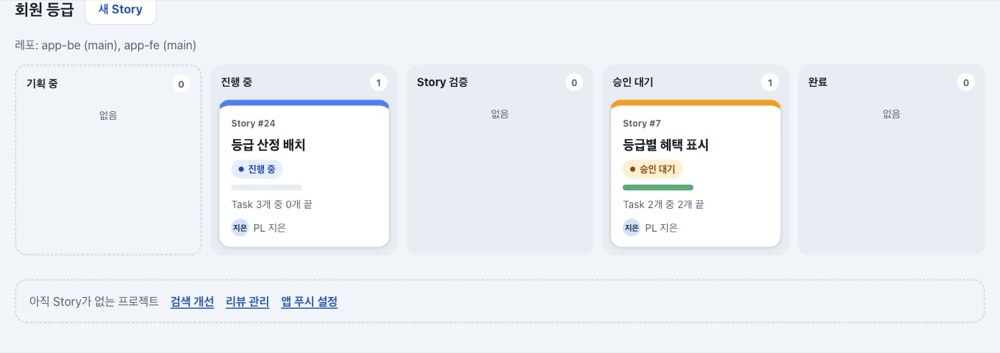
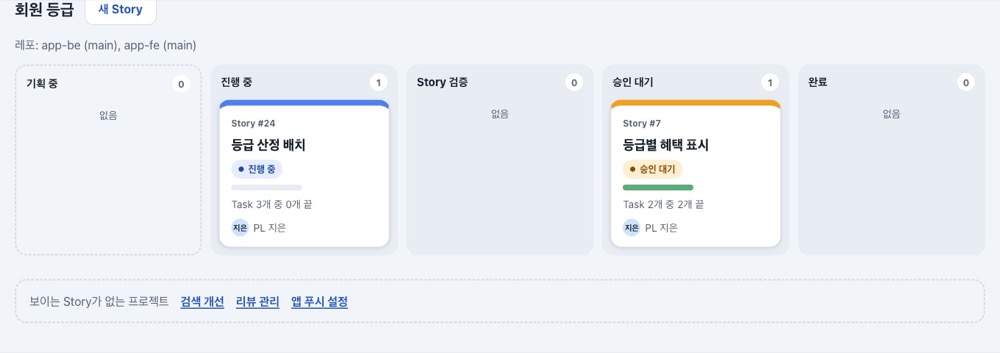
fix(hub): chip marks differ by shape with a ring, a note under a chosen chip, "보이는" on the empty line (U43 review 1)
Stopped is a square and approval a round dot, each ringed in the chip's text
colour (13-16:1 on every chip); a stopped Task outranks an approval (test).
Under a chosen chip the waiting box says it covers every project. The folded
line says 보이는 Story, since a project with only cancelled Stories lands there.
Tests escape project names in chips and on the line.

Changed region(s): [[0.031, 0.8414, 0.372, 0.8725]]

diff --git a/src/hub/board-pages.ts b/src/hub/board-pages.ts
@@ -39,6 +39,8 @@ const pill = (label: string, t?: Tone) => (t ? tonePill(t, label) : `<span class
 /** A card whose Task is taken (or stopped) names who has it, how their Mac is and how long it has stood there. */
 const TAKEN = new Set(["claimed", "held", "failed"]);
 const STOPPED = new Set(["held", "failed"]);
+/** Under a chosen project chip, 나를 기다리는 일 says it still covers every project (it sits right under the chips). */
+const ALL_PROJECTS = "고른 프로젝트와 관계없이 모든 프로젝트의 일입니다.";
 /** A stopped plan of the viewer's, said with the next step (the plan page shows why and has 다시 시도). */
 const STOPPED_PLAN = "기획이 멈췄습니다. 기획 화면에서 이유를 보고 다시 시도하세요.";
 
@@ -190,7 +192,7 @@ const waitLink = (href: string, title: string, story?: number) =>
  * first, then plans waiting for an answer, then approvals. Read-only: each link only leads to the page where the
  * person acts.
  */
-function waitingOnMe(me: Member, v: BoardView): string {
+function waitingOnMe(me: Member, v: BoardView, f: Filters): string {
   const items: Wait[] = [];
   for (const p of v.projects)
     for (const s of p.stories) {
@@ -222,18 +224,19 @@ function waitingOnMe(me: Member, v: BoardView): string {
     const why = k.every((w) => w.why === k[0].why) ? `<span class="gwhy">${esc(k[0].why)}</span>` : "";
     return `<li><p class="ghead">${tonePill(k[0].tone, k[0].word)}<span class="count">${k.length}</span>${why}</p><p class="glinks">${k.map((w) => w.link).join("")}</p></li>`;
   });
-  return `<section class="needs" aria-labelledby="needs"><h2 id="needs">나를 기다리는 일 <span class="count">${items.length}</span></h2><ul>${rows.join("")}</ul></section>`;
+  return `<section class="needs" aria-labelledby="needs"><h2 id="needs">나를 기다리는 일 <span class="count">${items.length}</span></h2>${f.project ? `<p class="muted">${ALL_PROJECTS}</p>` : ""}<ul>${rows.join("")}</ul></section>`;
 }
 
 /** The web plans a project shows: all of them, or under 내 Story만 the viewer's own. */
 const plansOf = (me: Member, v: BoardView, p: BoardProject) => v.plans.filter((x) => x.project.id === p.project.id && (!v.mine || x.pl.id === me.id));
-const STOP_FLAG = '<span class="flag stop" role="img" aria-label="멈춘 Task 있음"></span>';
-const NEED_FLAG = '<span class="flag need" role="img" aria-label="승인 대기 있음"></span>';
+/** A chip's mark: a square for a stopped Task, a round dot for an approval, named for screen readers and on hover. */
+const STOP_FLAG = '<span class="flag stop" role="img" aria-label="멈춘 Task 있음" title="멈춘 Task 있음"></span>';
+const NEED_FLAG = '<span class="flag need" role="img" aria-label="승인 대기 있음" title="승인 대기 있음"></span>';
 
 /**
  * The project chips (D44), only with two or more projects: 전체, then each project with how many Stories (web plans
- * too) it shows under the filters, and a dot when a Task of it stopped or a Story of it waits for its result approval.
- * A chip keeps the filters; it wraps onto more lines on a phone instead of sliding sideways.
+ * too) it shows under the filters, and a mark: a square when a Task of it stopped, else a round dot when a Story of it
+ * waits for its result approval. A chip keeps the filters; it wraps onto more lines on a phone instead of sliding sideways.
  */
 function chips(me: Member, base: Base, v: BoardView, f: Filters): string {
   if (v.projects.length < 2) return "";
@@ -288,7 +291,7 @@ function projectsOf(me: Member, base: Base, v: BoardView, f: Filters, body: (p: 
     })
     .filter(Boolean);
   const line = quiet.length
-    ? `<p class="quiet"><span>아직 Story가 없는 프로젝트</span>${quiet.map((p) => `<a href="${boardHref(base, { ...f, project: p.project.id })}">${esc(p.project.name)}</a>`).join("")}</p>`
+    ? `<p class="quiet"><span>보이는 Story가 없는 프로젝트</span>${quiet.map((p) => `<a href="${boardHref(base, { ...f, project: p.project.id })}">${esc(p.project.name)}</a>`).join("")}</p>`
     : "";
   const empty = v.mine
     ? "내가 맡거나 이끄는 Story가 없습니다."
@@ -327,7 +330,7 @@ export function storyBoardPage(me: Member, csrf: string, v: BoardView, chrome: C
     return `<div class="stages">${STAGES.map(column).join("")}</div>${strip}`;
   };
   const f = filtersOf(v);
-  return layout("Story 보드", me, `${titlebar(me, "/", v, f)}${waitingOnMe(me, v)}${projectsOf(me, "/", v, f, stages)}`, chrome);
+  return layout("Story 보드", me, `${titlebar(me, "/", v, f)}${waitingOnMe(me, v, f)}${projectsOf(me, "/", v, f, stages)}`, chrome);
 }
 
 /** `/tasks` (D43): the Task board of every Story, D42's board, with the same filters, box and tabs. */
@@ -345,5 +348,5 @@ export function taskBoardPage(me: Member, csrf: string, v: BoardView, chrome: Ch
     return planning + p.stories.filter((s) => s.state !== "draft").map((s) => storyLane(s, v.badges, v.cancelled)).join("");
   };
   const f = filtersOf(v);
-  return layout("모든 Task", me, `${titlebar(me, "/tasks", v, f)}${waitingOnMe(me, v)}${projectsOf(me, "/tasks", v, f, lanes)}`, chrome);
+  return layout("모든 Task", me, `${titlebar(me, "/tasks", v, f)}${waitingOnMe(me, v, f)}${projectsOf(me, "/tasks", v, f, lanes)}`, chrome);
 }

diff --git a/src/hub/pages.ts b/src/hub/pages.ts
@@ -73,7 +73,7 @@ button:hover,.btn:hover{filter:brightness(1.06)}
 .chips a{display:inline-flex;align-items:center;gap:8px;max-width:100%;min-height:44px;padding:0 16px;border-radius:999px;border:1px solid var(--line);background:var(--panel);color:var(--fg);font-weight:650;text-decoration:none}
 .chips a:hover{border-color:var(--accent);color:var(--fg);background:var(--panel)}
 .chips a[aria-current=true]{background:var(--fg);border-color:var(--fg);color:var(--panel)}.chips a[aria-current=true] .count{background:var(--panel);color:var(--fg)}
-.flag{width:10px;height:10px;border-radius:50%;flex:none}.flag.stop{background:var(--stop-bar)}.flag.need{background:var(--need-bar)}
+.flag{width:10px;height:10px;flex:none;box-shadow:0 0 0 2px currentColor}.flag.stop{background:var(--stop-bar);border-radius:2px}.flag.need{background:var(--need-bar);border-radius:50%}
 .projects{display:grid;gap:32px}.project{display:grid;gap:14px}
 .project>.row h2{font-size:22px}.project>.row{gap:10px 14px}
 .empty{background:var(--panel);border:2px dashed var(--line);border-radius:16px;padding:20px;color:var(--muted)}

diff --git a/docs/verification/2026-11-12-hub-many-projects.md b/docs/verification/2026-11-12-hub-many-projects.md
@@ -9,8 +9,8 @@ Story: D44 · M16 · V20. kit 실행은 `.ai-workflow/runs/U43-hub-many-projects
 버튼이 하는 일, 권한, 승인의 해시·revision 확인, CSRF·Origin 확인, 스크립트 없이 쓰기, 저절로 업데이트는 그대로다. 저장소는 건드리지 않았다(프로젝트 거르기는 이미 읽은 보드에서 고른다).
 
 1. **나를 기다리는 일 묶음.** 상자는 아무것도 자르거나 접지 않는다. 상태 글자가 같은 것(예: "승인 대기" 셋)은 한 줄이 되어 글자, 개수, 공통 설명을 한 번 쓰고, 그 아래 제목들을 링크로 늘어놓는다(Task는 "Story #N"과 함께). 설명은 모두 같을 때만 쓴다. 실패 이유가 서로 다른 "멈춤(실패)" 둘은 설명 없이 묶이고, 이유는 각 Task 화면에서 본다. 순서는 멈춘 것(Task·기획), 답을 기다리는 기획, 승인 대기다. 같은 종류 안에서는 보드 순서를 지킨다. 머리의 숫자는 전처럼 모든 항목 수다.
-2. **프로젝트 칩.** 프로젝트가 2개 이상이면 두 보드(`/`·`/board`, `/tasks`)의 탭 아래에 칩 줄이 있다: **전체**와 프로젝트마다 칩 하나. 칩의 숫자는 지금 거르개에서 보이는 Story 수(웹 기획 포함, 취소한 것은 취소한 것도 보기를 켰을 때만)이고, 전체는 그 합이다. 멈춘 Task가 있으면 빨간 점, 없고 승인 대기 Story가 있으면 주황 점이 붙는다(점은 `role="img"`와 "멈춘 Task 있음"·"승인 대기 있음" 이름이 있어 화면 낭독기도 읽는다). 칩을 누르면 그 프로젝트만 보인다(`?project=<id>`). 내 Story만·취소한 것도 보기 링크와 두 보드의 탭이 고른 칩을 함께 넘긴다. 칩 목록은 거르개와 관계없이 모든 프로젝트라 토글을 눌러도 칩 줄 모양이 그대로다. 나를 기다리는 일은 고른 칩과 관계없이 모든 프로젝트의 것을 보인다. 폰에서는 칩이 여러 줄로 감긴다(옆으로 밀리지 않는다). 모르는 프로젝트 id는 전체로 보이고, 탭·토글 링크에도 넘기지 않는다. 주소에 넣는 id는 Hub가 아는 프로젝트의 것뿐이고 URL 인코딩한다.
-3. **빈 프로젝트 한 줄.** 칩 줄이 있는 전체 보기에서 Story(웹 기획 포함)가 없는 프로젝트는 다섯 칸 대신 맨 아래 "아직 Story가 없는 프로젝트" 점선 한 줄에 이름만 모인다. 이름은 같은 보드·같은 거르개의 그 프로젝트 칩 보기로 가고, 거기서 전처럼 빈 안내와 **새 Story**가 보인다. 프로젝트가 하나뿐이면 칩도 한 줄도 없이 전과 같다. 내 Story만을 켜면 내 것이 없는 프로젝트는 전처럼 아예 빠진다.
+2. **프로젝트 칩.** 프로젝트가 2개 이상이면 두 보드(`/`·`/board`, `/tasks`)의 탭 아래에 칩 줄이 있다: **전체**와 프로젝트마다 칩 하나. 칩의 숫자는 지금 거르개에서 보이는 Story 수(웹 기획 포함, 취소한 것은 취소한 것도 보기를 켰을 때만)이고, 전체는 그 합이다. 멈춘 Task가 있으면 빨간 네모, 멈춘 것은 없고 승인 대기 Story가 있으면 주황 동그라미가 하나 붙는다. 둘은 색만이 아니라 모양으로도 다르고, 칩 글자색의 2px 테두리가 있어 어느 칩 위에서도 3:1을 넘는다(리뷰 1차). 표시는 `role="img"`와 "멈춘 Task 있음"·"승인 대기 있음" 이름·`title`이 있어 화면 낭독기가 읽고 마우스를 올리면 뜻이 나온다. 칩을 누르면 그 프로젝트만 보인다(`?project=<id>`). 내 Story만·취소한 것도 보기 링크와 두 보드의 탭이 고른 칩을 함께 넘긴다. 칩 목록은 거르개와 관계없이 모든 프로젝트라 토글을 눌러도 칩 줄 모양이 그대로다. 나를 기다리는 일은 고른 칩과 관계없이 모든 프로젝트의 것을 보이고, 칩을 고른 동안은 제목 아래에 "고른 프로젝트와 관계없이 모든 프로젝트의 일입니다."라고 쓴다(칩 바로 아래라 걸러진 것처럼 읽힌다는 리뷰 1차 지적). 폰에서는 칩이 여러 줄로 감긴다(옆으로 밀리지 않는다). 모르는 프로젝트 id는 전체로 보이고, 탭·토글 링크에도 넘기지 않는다. 주소에 넣는 id는 Hub가 아는 프로젝트의 것뿐이고 URL 인코딩한다.
+3. **빈 프로젝트 한 줄.** 칩 줄이 있는 전체 보기에서 보이는 Story(웹 기획 포함)가 없는 프로젝트는 다섯 칸 대신 맨 아래 "보이는 Story가 없는 프로젝트" 점선 한 줄에 이름만 모인다. "보이는"인 까닭: 취소한 Story만 있는 프로젝트도 취소한 것도 보기가 꺼져 있으면 여기에 온다(리뷰 1차). 그 프로젝트의 칩 보기에 나오는 빈 안내 "아직 Story가 없습니다"는 전부터 있던 문구라 이번에 바꾸지 않았다. 이름은 같은 보드·같은 거르개의 그 프로젝트 칩 보기로 가고, 거기서 전처럼 빈 안내와 **새 Story**가 보인다. 프로젝트가 하나뿐이면 칩도 한 줄도 없이 전과 같다. 내 Story만을 켜면 내 것이 없는 프로젝트는 전처럼 아예 빠진다.
 4. **새 프로젝트를 만든 뒤.** 전에는 `/board`로 갔다. 이제 새 빈 프로젝트는 전체 보기에서 이름 한 줄이므로, 만든 뒤 바로 그 프로젝트의 칩 보기(`/board?project=<id>`)로 가서 **새 Story**가 눈앞에 있다. Story에 따로 적지 않은 결과라 G4에서 확인받는다.
 5. 문서: [LOCAL-PREVIEW.md](../LOCAL-PREVIEW.md)의 보드 읽는 법(나를 기다리는 일, 프로젝트 칩, 빈 프로젝트 한 줄, 새 프로젝트 뒤).
 
@@ -20,6 +20,7 @@ Story: D44 · M16 · V20. kit 실행은 `.ai-workflow/runs/U43-hub-many-projects
 - 바꾼 기존 시험(이유): 나를 기다리는 일 두 시험은 줄 모양이 바뀌었다(D44 (1)). "an empty project says what comes next"는 빈 프로젝트가 칩 보기에서 안내를 보이게 했다(D44 (3), 고치기 전 코드에서도 통과한다: `?project=`를 무시하고 그 프로젝트가 보였으므로). 새 프로젝트를 만든 뒤 가는 주소를 보는 시험 둘(`hub-plan-pages`의 `/projects/new ...`, `hub-plan-office`의 `newStory` 도우미)은 `/board?project=<id>`를 본다. 이 둘은 서버를 바꾸기 전에 고쳐 실패를 봤다(`'/board'` ≠ `'/board?project=…'`).
 - 화면을 재다가 찾은 것: 공통 설명에 띄어쓰기 없는 긴 낱말이 들어가면 폰에서 쪽이 782px로 넓어졌다(지금 설명은 모두 띄어쓴 고정 문장이라 실제로는 안 생긴다). 묶음 줄 그리드에 `minmax(0,1fr)`, 설명에 `overflow-wrap:anywhere`를 주었다. CSS 시험에 먼저 넣어 실패를 본 뒤 고쳤다.
 - **GREEN**: `tests/hub-board-page.test.mjs` 42/42, Hub 시험 파일 전부 563/563, `npm run typecheck` exit 0.
+- **리뷰 1차**(독립 리뷰어 하나, [기록](../../.ai-workflow/runs/U43-hub-many-projects-review-1.md)): Ready, Critical 0, Important 1(칩 점이 색으로만 멈춤과 승인 대기를 가르고 몇 곳에서 3:1에 못 미침), Minor 6. 고친 것: 표시 모양(네모·동그라미)과 칩 글자색 테두리, 둘 다 있을 때 멈춤이 이기는 시험, LOCAL-PREVIEW 문구, 한 줄의 "보이는", 칩을 고른 동안 나를 기다리는 일의 안내 한 줄, 칩과 한 줄의 프로젝트 이름 이스케이프 시험, 시험 제목. 남긴 것: 숫자를 화면 낭독기용 단위 없이 읽는 것(Minor 5), 프로젝트가 하나인 Hub에서 새 프로젝트 뒤 `project=`가 보이지 않게 따라다니는 것(Minor 7, 리뷰어도 받아들일 만하다고 봄). RED 2: 같은 파일 3/42 실패(칩 표시 마크업, 한 줄 문구, 표시 CSS). 이스케이프 확인은 전에도 맞게 동작해 새로 더한 덮임이다. GREEN 2는 kit 실행 증거에 적는다.
 - 전체 `npm test`와 kit 검증 결과는 kit 실행의 검증 증거와 STATUS에 적는다.
 
 ## 화면을 잰 것
@@ -35,6 +36,7 @@ Story: D44 · M16 · V20. kit 실행은 `.ai-workflow/runs/U43-hub-many-projects
 
 - 폰에서 칩 줄은 8개 프로젝트와 전체로 다섯 줄(약 230px)이다. 묶음으로 아낀 상자 높이(273px)를 칩 줄이 거의 다 써서, 첫 프로젝트가 보이는 위치는 폰에서 같고 데스크톱에서는 32px 내려갔다. 쪽 전체는 빈 프로젝트가 접혀 짧아졌다.
 - 가로 넘침과 누름 크기: 6개 화면(전체·한 프로젝트·빈 프로젝트 칩 보기·`/tasks` 전체·`/tasks` 한 프로젝트·내 Story만) × 320·390·861·1000·1360px × 두 테마 × (그대로, 긴 낱말을 칩·한 줄 이름·묶음 제목·공통 설명에 넣음) = 120가지에서 가로 넘침 0, 칩·묶음 링크·한 줄 이름 모두 44px 이상.
+- 칩 표시(리뷰 1차 고침 뒤): 테두리(칩 글자색)와 칩 바탕의 대비가 밝은 테마 16.46:1, 어두운 테마 13.47:1이고 고른 칩에서도 같다. 안의 색은 칩에 따라 1.81–7.65:1이지만 표시의 경계는 테두리가 맡는다. 모양은 네모(모서리 2px)와 동그라미(50%)다. 고친 뒤 120가지 화면을 다시 재어 넘침 0, 44px 미만 0.
 - 확인용 허브 복사본: 칩 3개(전체·realcheck·test 11111), 빈 프로젝트 test 11111은 한 줄, 기다리는 일 1개(질문)가 묶음 한 줄. 1360px 두 테마와 390px 밝은 테마에서 가로 넘침 0.
 
 | 고치기 전 | 고친 뒤 |

diff --git a/docs/LOCAL-PREVIEW.md b/docs/LOCAL-PREVIEW.md
@@ -421,9 +421,9 @@ Hub 웹의 첫 화면(`/`)이 프로젝트별 칸반 보드가 되었고, PL은 
 - 첫 화면 **Story 보드**는 프로젝트마다 Story의 단계 다섯 칸이다: **기획 중**(진행 중인 웹 기획과 아직 열리지 않은 Story, 점선과 줄 노트 모양의 초안 카드), **진행 중**, **Story 검증**, **승인 대기**, **완료**(가장 최근에 끝난 5개, 나머지는 "이전 완료 보기" 접힘). Story 카드에는 Story 번호·제목, 상태 글자, 멈춘 Task 수, "Task N개 중 M개 끝"(Story 검증 카드도 센다)과 막대, PL, 지금 그 Story의 Task를 맡은 사람이 보인다. 웹 기획이 없는 Hub는 어느 프로젝트에도 초안이 없으면 기획 중 칸을 그리지 않는다(한 프로젝트라도 초안이 있으면 모든 프로젝트에 그려 칸이 맞는다). 취소한 것도 보기를 켜면 취소한 Story가 다섯 칸 아래 흐린 줄에 막대 없이 "Task N개 취소됨 · M개 끝남"(취소 전에 끝난 Task가 없으면 "Task N개 취소됨")과 함께 모인다. 단계 칸은 860px보다 넓은 창에서는 언제나 한 줄이다.
 - 윗줄의 **Story 보드 / 모든 Task** 탭으로 두 보드를 오간다. 토글(내 Story만·취소한 것도 보기)은 탭을 건너도 유지된다. **모든 Task**(`/tasks`)는 프로젝트마다 Story 줄(lane)이 있고, 줄의 머리에 Story 번호·제목, 상태, PL, 지금 맡은 사람, "Task N개 중 M개 끝"(취소한 Story는 보드 카드처럼 "Task N개 취소됨 · M개 끝남")이 있으며, 그 아래에 Task 카드 다섯 칸이 있다(아래 설명). 아직 열리지 않은 Story와 진행 중인 웹 기획은 따로 "기획 중" 줄에 모인다.
 - **Story 화면**(`/stories/<id>`)에는 위에 단계 표시(기획 중 → 진행 중 → Story 검증 → 승인 대기 → 완료, 지금 단계가 진하게)와 "Task N개 중 M개 끝"(열리기 전 Story는 "Task N개 준비됨", 취소한 Story는 "Task N개 취소됨 · M개 끝남". 보드 카드와 같다), 아래에 그 Story만의 Task 보드(합쳐진 카드 전부, 취소한 카드는 흐린 "취소됨" 줄)가 있다. 앞 Task까지 보이는 표는 "표로 보기", Story 글은 "Story 글"로 접혀 있다. 승인 대기 Story에는 "결과 승인은 Hub가 아니라 PL의 Mac(claude 대화)에서 합니다"가 붙는다.
-- 두 보드 맨 위의 **나를 기다리는 일**: 내가 PL인 Story가 결과 승인을 기다리거나, 내가 맡았거나 내 Story에 있는 Task가 멈췄거나(어느 Story인지 함께), 내 웹 기획이 내 답(질문·초안·설계 승인)을 기다리거나 멈췄으면 여기에 모인다. 줄이거나 접지 않는다. 상태 글자가 같은 것끼리 한 줄로 묶여 그 글자, 개수, 공통 설명(모두 같은 이유일 때만. 실패 이유가 서로 다르면 각 Task 화면에서 본다)이 한 번 나오고, 그 아래 제목들이 링크로 늘어선다. 멈춘 것, 답을 기다리는 기획, 승인 대기 순이다. 제목을 누르면 그 화면으로 간다. 보기만 하는 상자라 버튼은 없고, 기다리는 일이 없으면 상자도 없다. 아래 프로젝트 칩을 골라도 이 상자는 모든 프로젝트의 것을 보인다.
-- **프로젝트 칩**(프로젝트가 2개 이상일 때, 탭 아래): **전체**와 프로젝트마다 칩 하나. 칩의 숫자는 지금 거르개(내 Story만·취소한 것도 보기)에서 보이는 Story 수(웹 기획 포함)이고, 멈춘 Task가 있으면 빨간 점, 승인 대기 Story가 있으면 주황 점이 붙는다. 칩을 누르면 그 프로젝트만 보인다(`?project=<id>`). 토글과 두 보드의 탭을 건너도 고른 칩이 유지된다. 폰에서는 칩이 여러 줄로 감긴다. 모르는 프로젝트 id는 전체로 보인다.
-- **전체**에서 Story가 없는 프로젝트는 다섯 칸 대신 맨 아래 "아직 Story가 없는 프로젝트" 한 줄에 이름만 모인다. 이름을 누르면 그 프로젝트의 칩 보기로 가서 빈 안내와 **새 Story**가 나온다. **새 프로젝트**를 만들면 바로 그 프로젝트의 칩 보기로 간다. 내 Story만을 켜면 내 것이 없는 프로젝트는 전처럼 아예 빠진다.
+- 두 보드 맨 위의 **나를 기다리는 일**: 내가 PL인 Story가 결과 승인을 기다리거나, 내가 맡았거나 내 Story에 있는 Task가 멈췄거나(어느 Story인지 함께), 내 웹 기획이 내 답(질문·초안·설계 승인)을 기다리거나 멈췄으면 여기에 모인다. 줄이거나 접지 않는다. 상태 글자가 같은 것끼리 한 줄로 묶여 그 글자, 개수, 공통 설명(모두 같은 이유일 때만. 실패 이유가 서로 다르면 각 Task 화면에서 본다)이 한 번 나오고, 그 아래 제목들이 링크로 늘어선다. 멈춘 것, 답을 기다리는 기획, 승인 대기 순이다. 제목을 누르면 그 화면으로 간다. 보기만 하는 상자라 버튼은 없고, 기다리는 일이 없으면 상자도 없다. 아래 프로젝트 칩을 골라도 이 상자는 모든 프로젝트의 것을 보이고, 칩을 고른 동안은 제목 아래에 "고른 프로젝트와 관계없이 모든 프로젝트의 일입니다."라고 쓴다.
+- **프로젝트 칩**(프로젝트가 2개 이상일 때, 탭 아래): **전체**와 프로젝트마다 칩 하나. 칩의 숫자는 지금 거르개(내 Story만·취소한 것도 보기)에서 보이는 Story 수(웹 기획 포함)이고, 멈춘 Task가 있으면 빨간 네모, 멈춘 것은 없고 승인 대기 Story가 있으면 주황 동그라미가 하나 붙는다(마우스를 올리면 뜻이 나온다). 칩을 누르면 그 프로젝트만 보인다(`?project=<id>`). 토글과 두 보드의 탭을 건너도 고른 칩이 유지된다. 폰에서는 칩이 여러 줄로 감긴다. 모르는 프로젝트 id는 전체로 보인다.
+- **전체**에서 보이는 Story가 없는 프로젝트(취소한 Story만 있고 취소한 것도 보기가 꺼진 프로젝트도)는 다섯 칸 대신 맨 아래 "보이는 Story가 없는 프로젝트" 한 줄에 이름만 모인다. 이름을 누르면 그 프로젝트의 칩 보기로 가서 빈 안내와 **새 Story**가 나온다. **새 프로젝트**를 만들면 바로 그 프로젝트의 칩 보기로 간다. 내 Story만을 켜면 내 것이 없는 프로젝트는 전처럼 아예 빠진다.
 - Task 카드는 다섯 칸에 놓인다. **백로그**(앞 Task가 끝나기를 기다림), **할 일**(받을 사람을 기다림), **진행 중**(Task를 받아 만드는 중), **리뷰**(AI 리뷰·검증·합치는 중), **완료**(합쳐짐). 사람이 카드를 옮기지 않는다. Hub가 아는 Task 상태가 바뀌면 카드가 저절로 칸을 옮긴다.
 - 모든 Task의 완료 칸은 Story마다 최근 합쳐진 5장만 보이고, 나머지는 "N개 더" 링크(그 Story 화면, 전부 보임)로 간다.
 - 멈춘 Task(실패·보류)는 멈춘 칸에 남고 "멈춤" 표시와 쉬운 이유가 붙는다. 실패한 Task는 실패한 칸(진행 중 또는 리뷰)에 그대로 있다.
